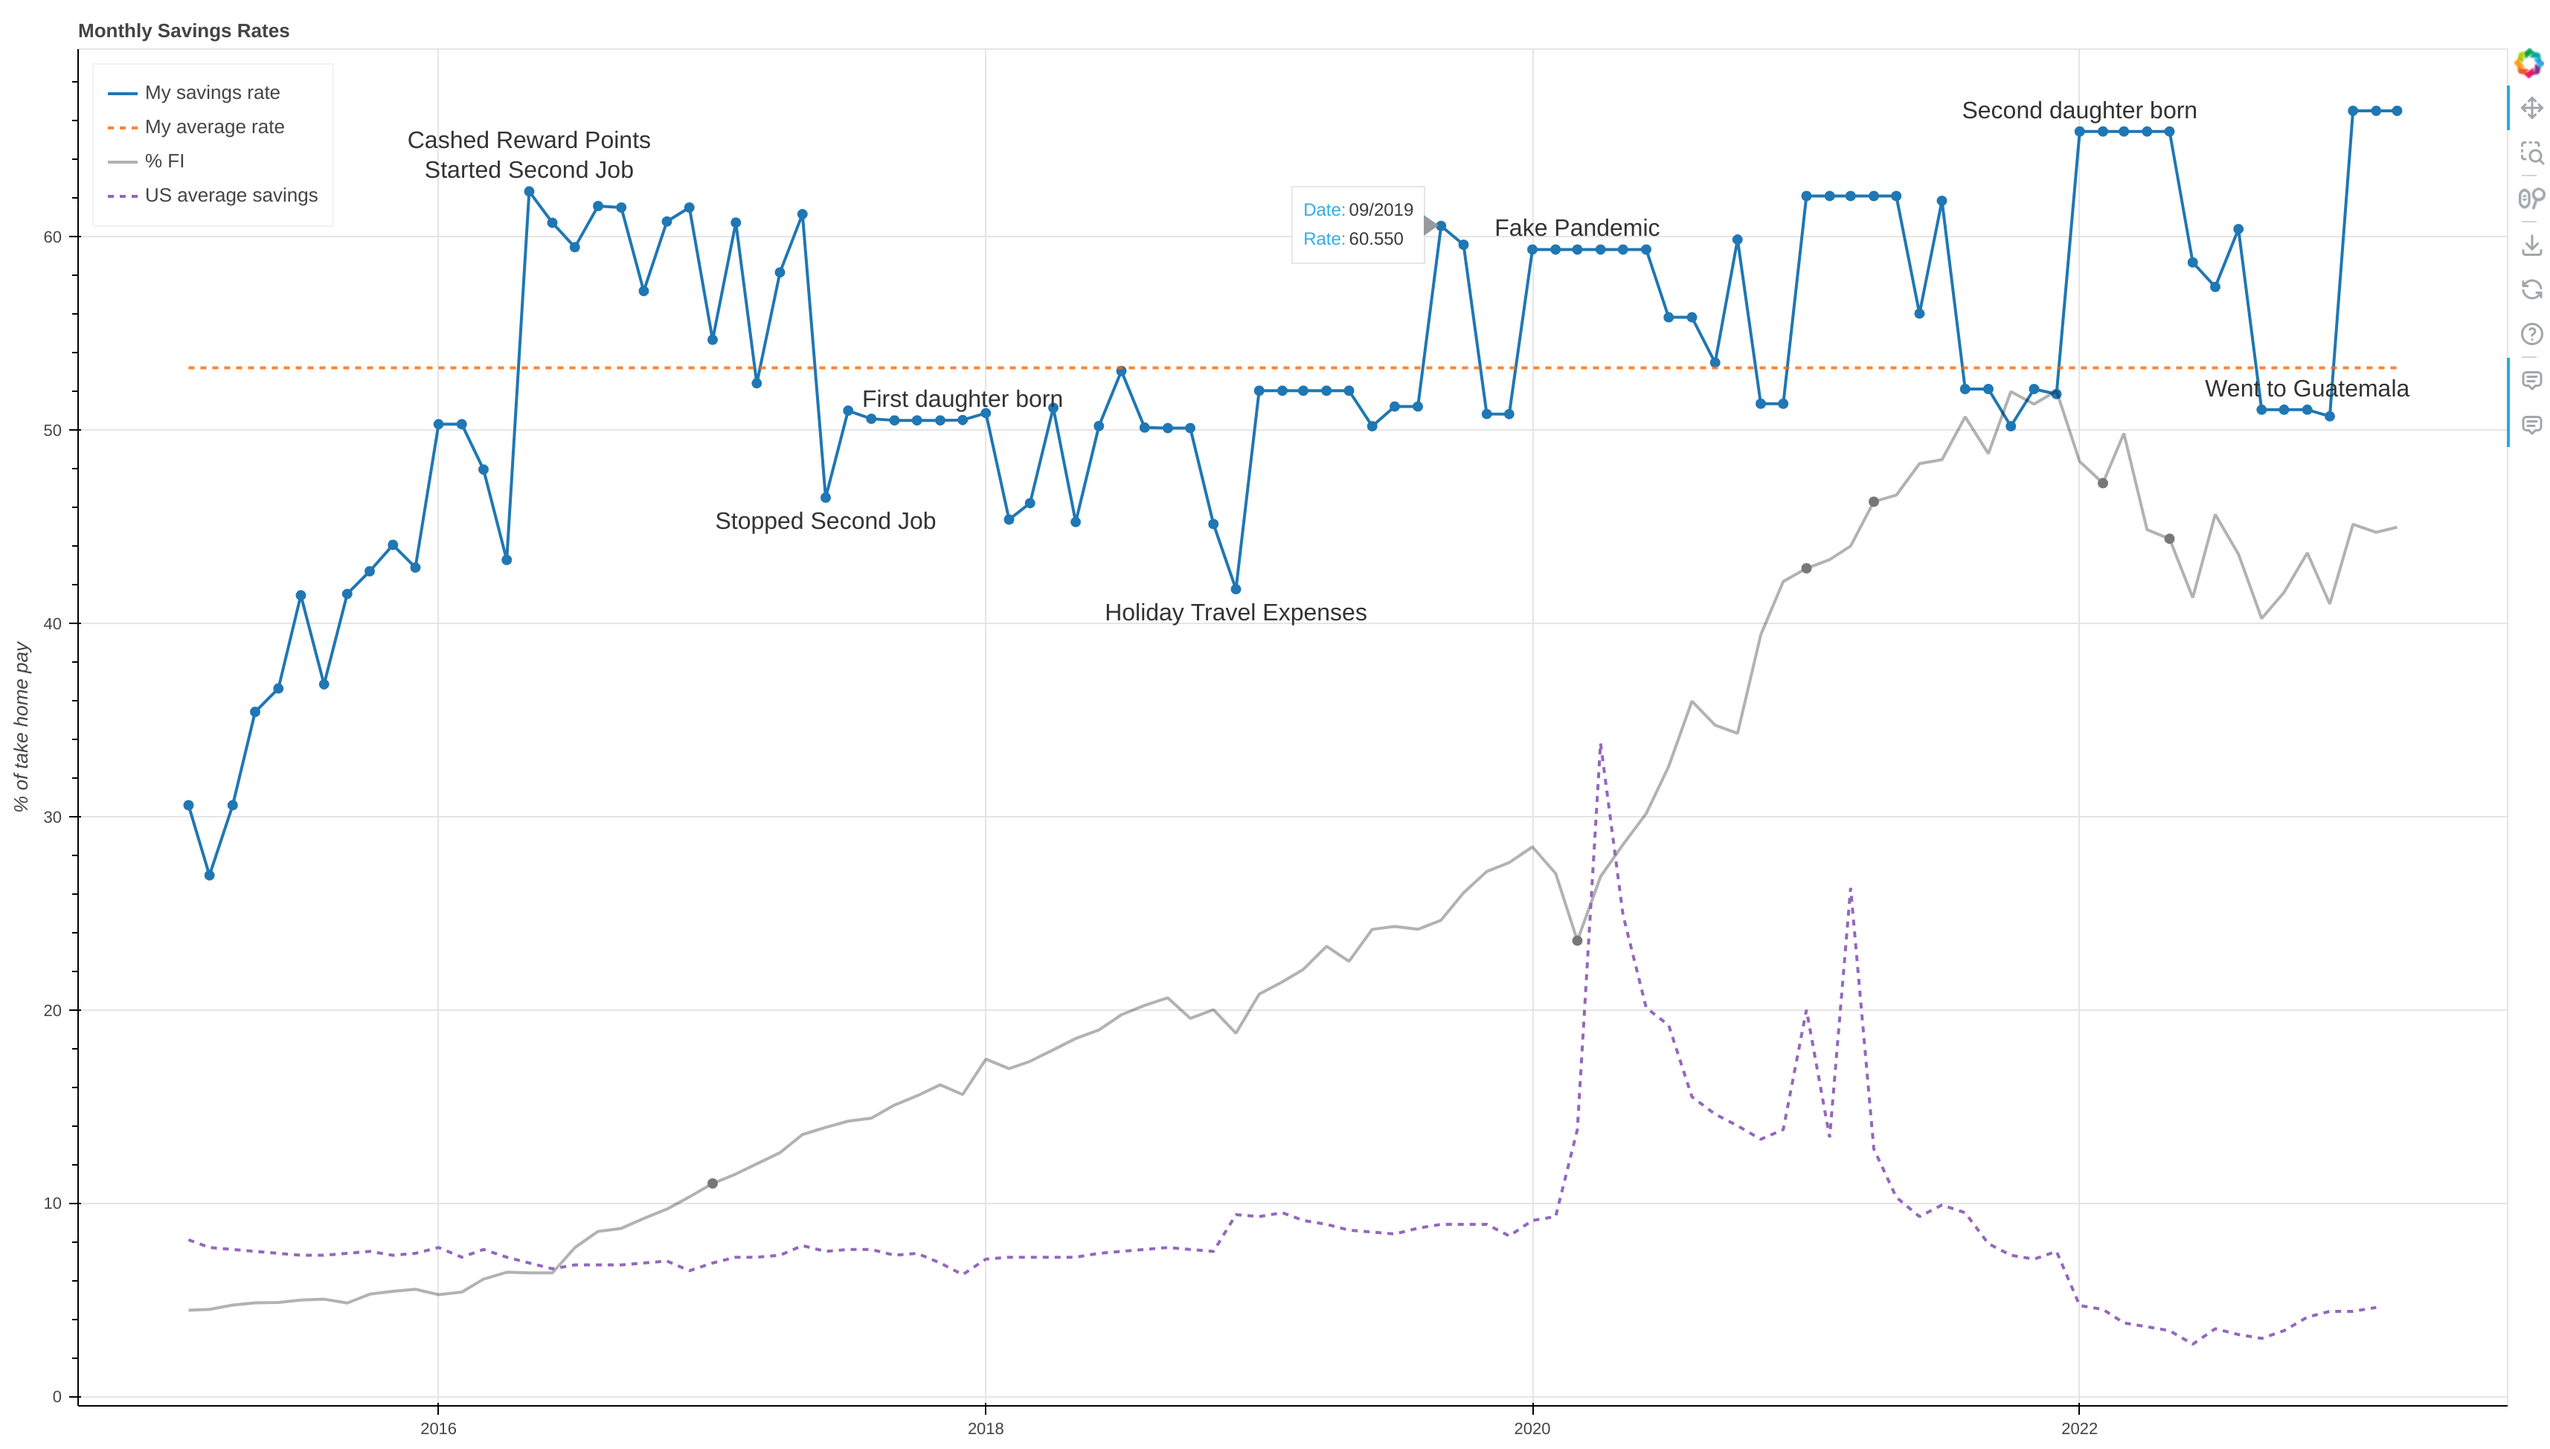
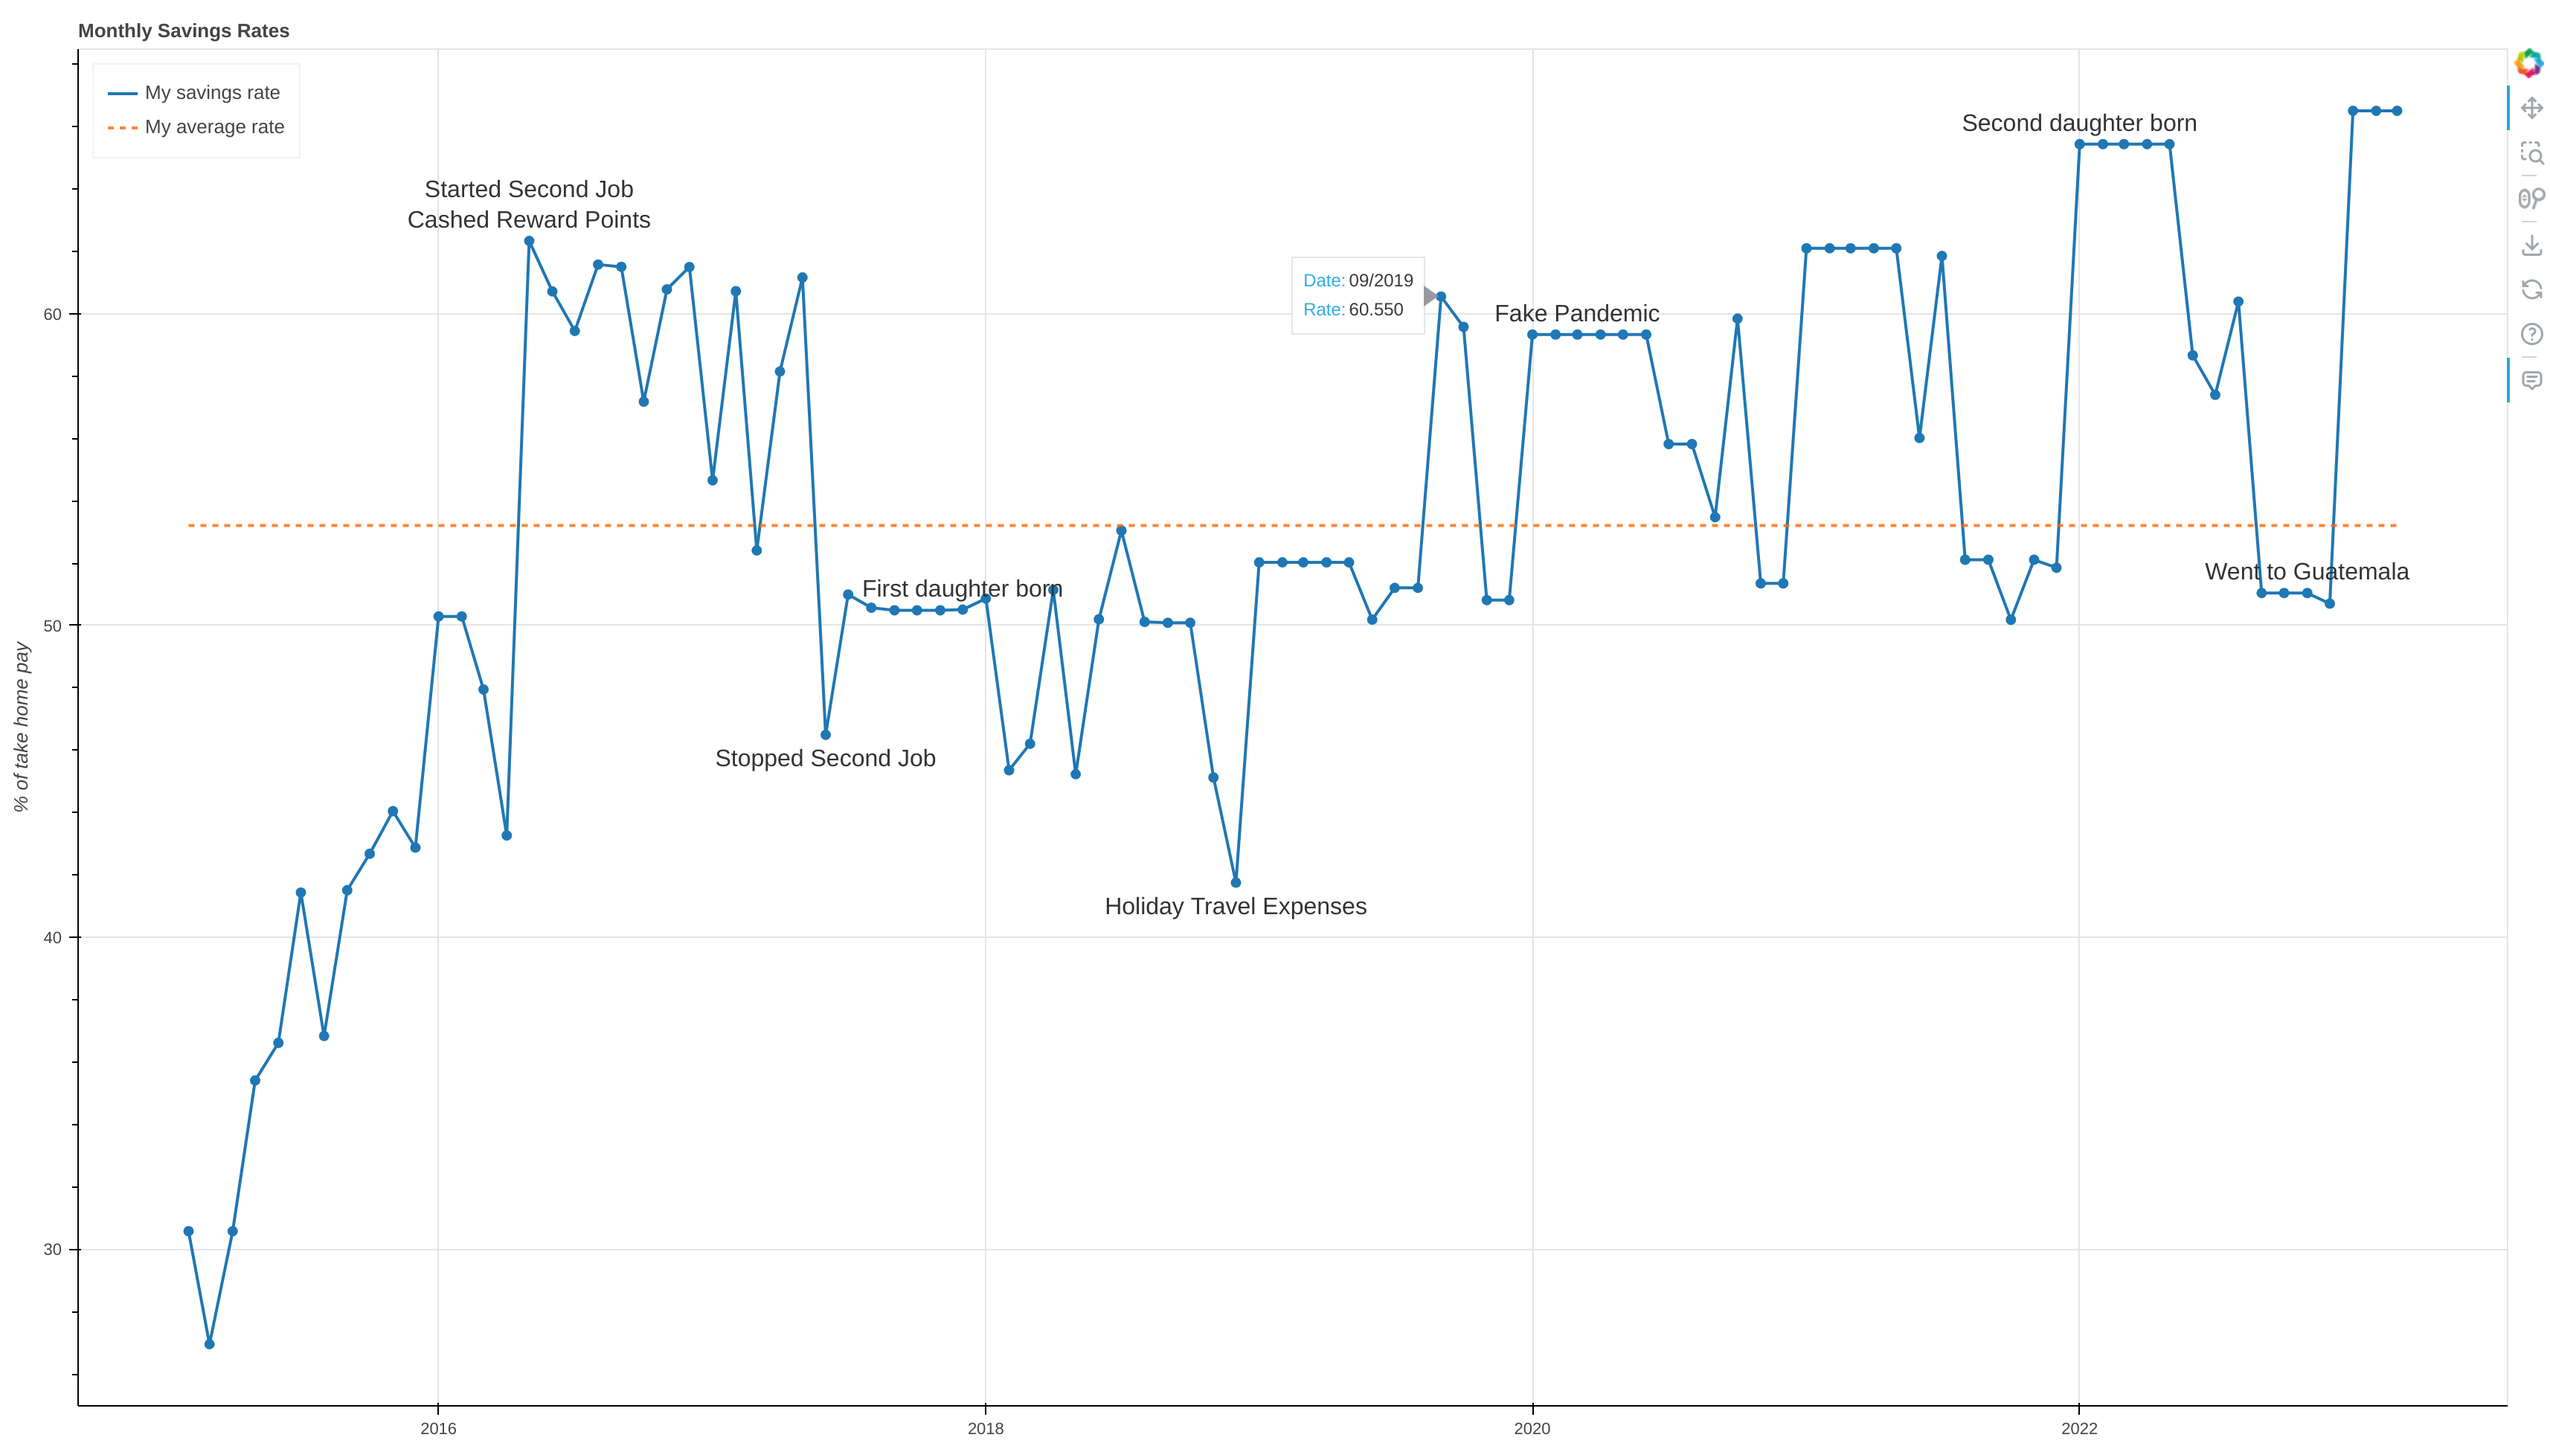
Fixed display of % FI in legend when not enabled, updated image.

diff --git a/savings_rate.py b/savings_rate.py
@@ -1088,14 +1088,18 @@ class Plot:
         )
 
         # Plot % FI
-        p.line(
-            percent_fi_x,
-            percent_fi,
-            legend_label="% FI",
-            line_color="#000000",
-            line_width=2,
-            line_alpha=0.3,
-        )
+        if self.user.config.fi_number and self.user.config.total_balances:
+            p.line(
+                percent_fi_x,
+                percent_fi,
+                legend_label="% FI",
+                line_color="#000000",
+                line_width=2,
+                line_alpha=0.3,
+            )
+            self.update_plot_with_percent_fi_notes(
+                p, percent_fi, percent_fi_x, percent_fi_notes
+            )
 
         # % FI text annotations
         # p.text(
@@ -1105,9 +1109,6 @@ class Plot:
         #    text_color="#777777",
         #    text_align="center",
         # )
-        self.update_plot_with_percent_fi_notes(
-            p, percent_fi, percent_fi_x, percent_fi_notes
-        )
 
         # Savings rate text annotations
         p.text(
